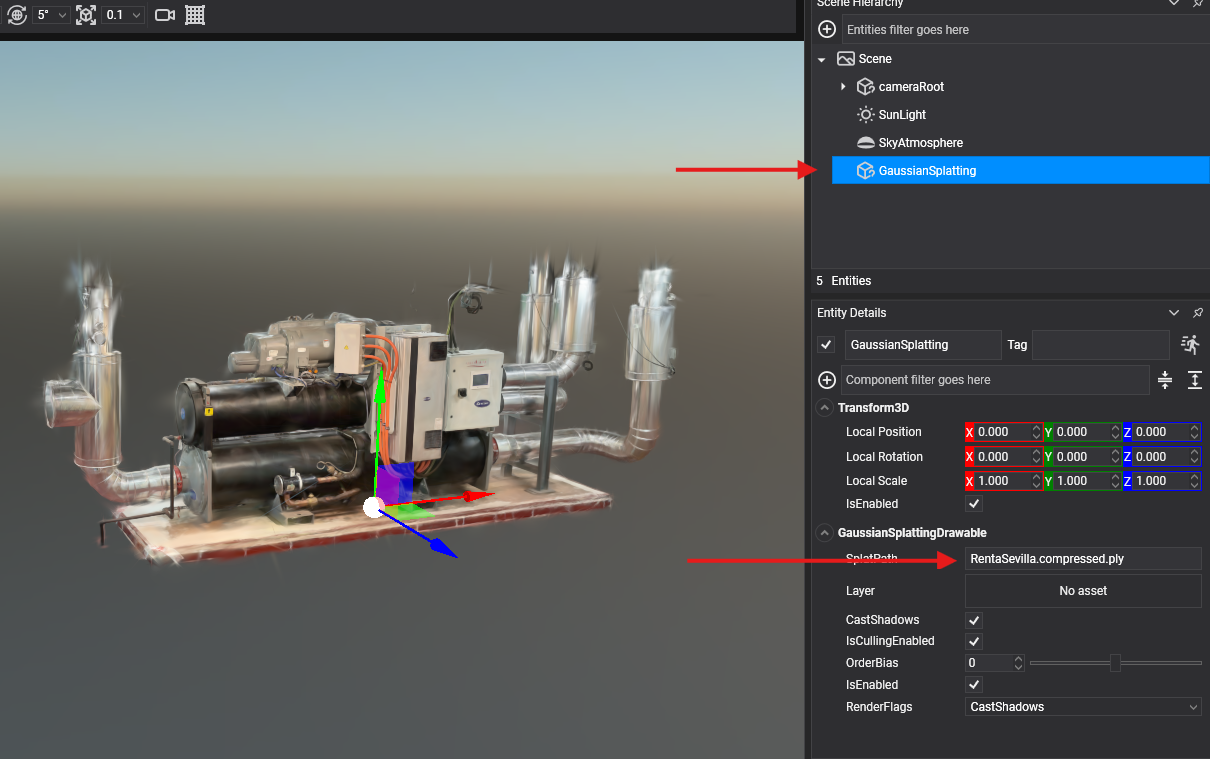
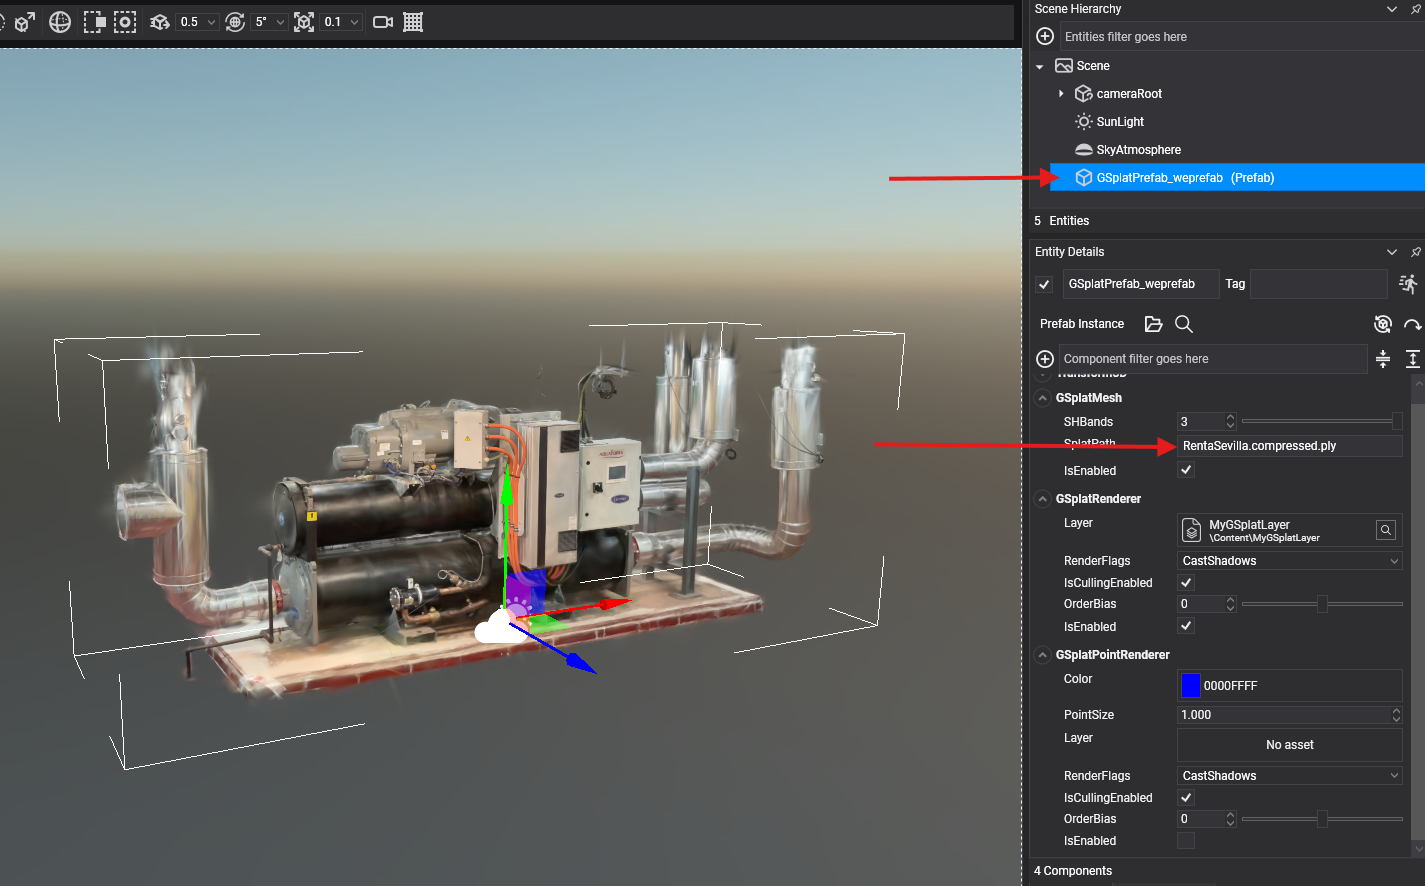
Modify the Gaussian Splatting Addon

diff --git a/src/manual/addons/gaussiansplatting/getting_started.md b/src/manual/addons/gaussiansplatting/getting_started.md
@@ -35,42 +35,78 @@ In Evergine Studio, add a supported 3D Gaussian Splatting file (`.splat` or comp
 
 ![Add splat file](images/add_splat_file.png)
 
-### 4. Create the Gaussian Splatting Entity 
 
-In your scene, create a new Empty Entity and add the `GaussianSplattingDrawable` component.
-Set the `SplatPath` property to the path of the 3D Gaussian Splat file.
+### 4. Instantiate Gaussian Splatting prefab
+
+Instantiate the `GSplatPrefab` prefab in your scene, located in the ``Dependencies > Evergine.GaussianSplatting > Prefabs`` folder:
+
+![Gaussian Splatting Prefab](images/add_splat_prefab.png)
+
+In the ``GSplatMesh`` component, set the `SplatPath` property to the path of the 3D Gaussian Splat file:
 
 ![Add 3DGS entity](images/add_entity.png)
 
+This prefab creates an Entity and adds the following components:
+- **GSplatMesh:** Responsible for loading the Gaussian Splatting file.
+- **GSplatRenderer:** A drawable that renders the Gaussian Splatting.
+- **GSplatPointRenderer:** A drawable (disabled by default) that renders a point cloud using the splat centers.
 
-## GaussianSplattingDrawable Properties
+## Component Properties
 
-The `GaussianSplattingDrawable` component has the following properties:
+### GSplatMesh Properties
+
+The `GSplatMesh` component has the following properties:
 
 | Property           | Description |
 |--------------------|-------------|
-| **SplatPath** | The path of the Gaussian Splatting file. You can change this property at runtime to dynamically update the Gaussian Splatting scene. |
-| **IsSplatSceneLoaded** | Indicates if a Gaussian Splatting scene is loaded. |
-| **Layer** | The layer that will be used to render the Gaussian Splatting. |
-
+| **SplatPath** | The path to the Gaussian Splatting file. You can change this property at runtime to dynamically update the Gaussian Splatting scene. |
+| **SHBands** | The number of Spherical Harmonics bands used to render the Gaussian Splatting scene. |
+| **IsSplatSceneLoaded** | Indicates whether a Gaussian Splatting scene is loaded. |
+| **Layer** | The layer used to render the Gaussian Splatting. |
 
 And the following event:
 
 | Event           | Description |
 |--------------------|-------------|
-| **OnSplatSceneLoaded** | Fired when a Gaussian Splatting scene is successfully loaded. |
+| **OnSplatSceneLoaded** | Triggered when a Gaussian Splatting scene is successfully loaded. |
+
+### GSplatRenderer Properties
+
+The ``GSplatRenderer`` is a Drawable3D component that renders the Gaussian Splatting loaded in the ``GSplatMesh`` component. It has the following property:
+
+| Property           | Description |
+|--------------------|-------------|
+| **Layer** | The layer used to render the Gaussian Splatting. |
+
+### GSplatPointRenderer
+
+The `GSplatPointRenderer` component has the following properties:
+
+| Property           | Description |
+|--------------------|-------------|
+| **Color** | The color of the points. |
+| **PointSize** | The size of the points (in pixels). |
+| **Layer** | The layer used to render the Gaussian Splatting point cloud. |
+
+This component renders a point at each splat center:
+
+![Gaussian Splatting Point Cloud](images/gsplat_points.png)
 
 ## Create Gaussian Splatting from Code
 
-This is the code necessary to load a Gaussian Splatting file into your Evergine scene:
+The following code demonstrates how to load a Gaussian Splatting file into your Evergine scene:
+
 
 ```cs
 var gaussianSplattingEntity = new Entity()
     .AddComponent(new Transform3D())
-    .AddComponent(new GaussianSplattingDrawable()
+    .AddComponent(new GSplatMesh()
     {
         SplatPath = "MySplatPlyFile.ply"
-    });
+    })
+    .AddComponent(new GSplatRenderer())
+    .AddComponent(new GSplatPointRenderer(){ IsEnabled = false}); // Add this component if you want to render the splats point cloud...
+    
 
 this.Managers.EntityManager.Add(gaussianSplattingEntity);
 ```
